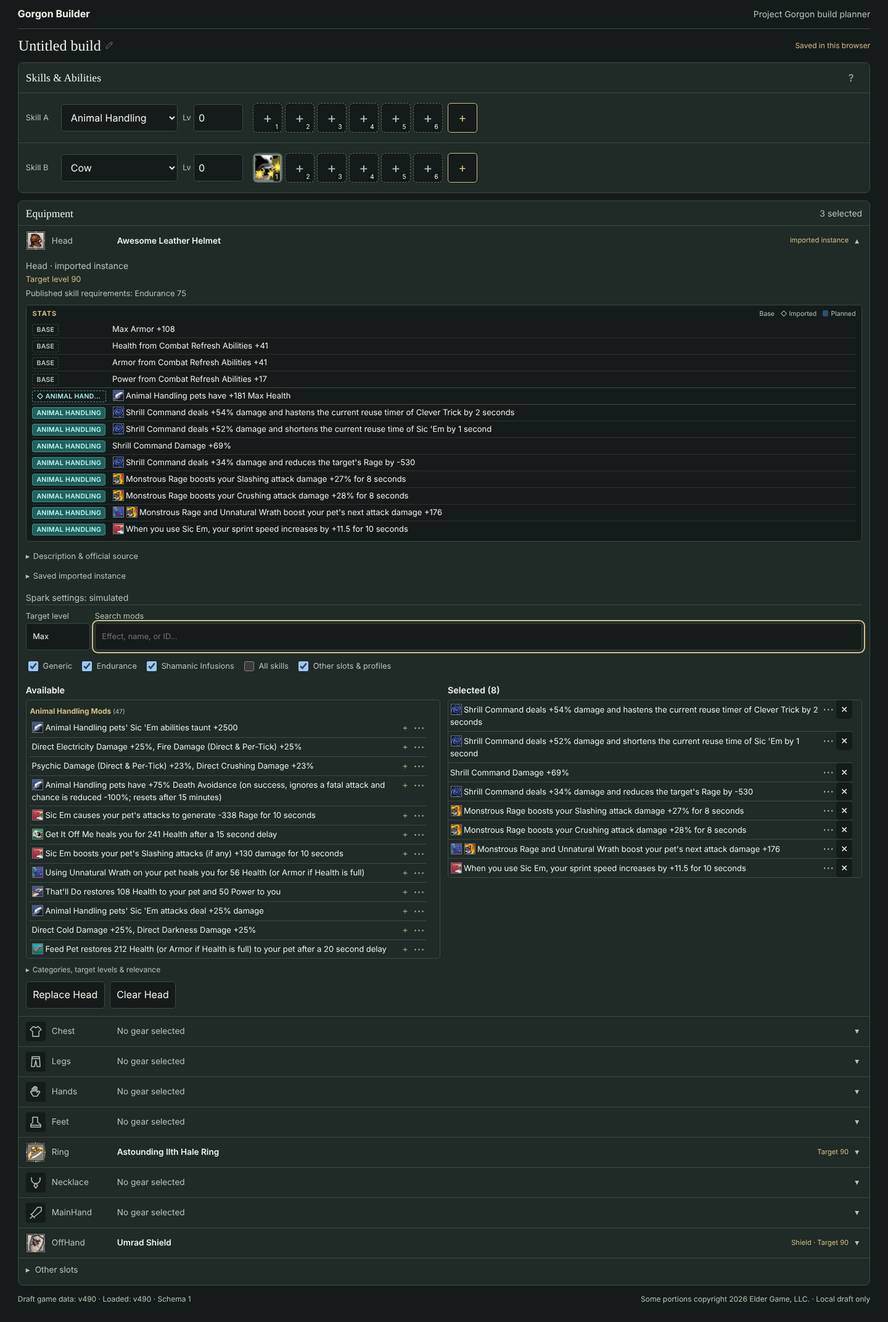
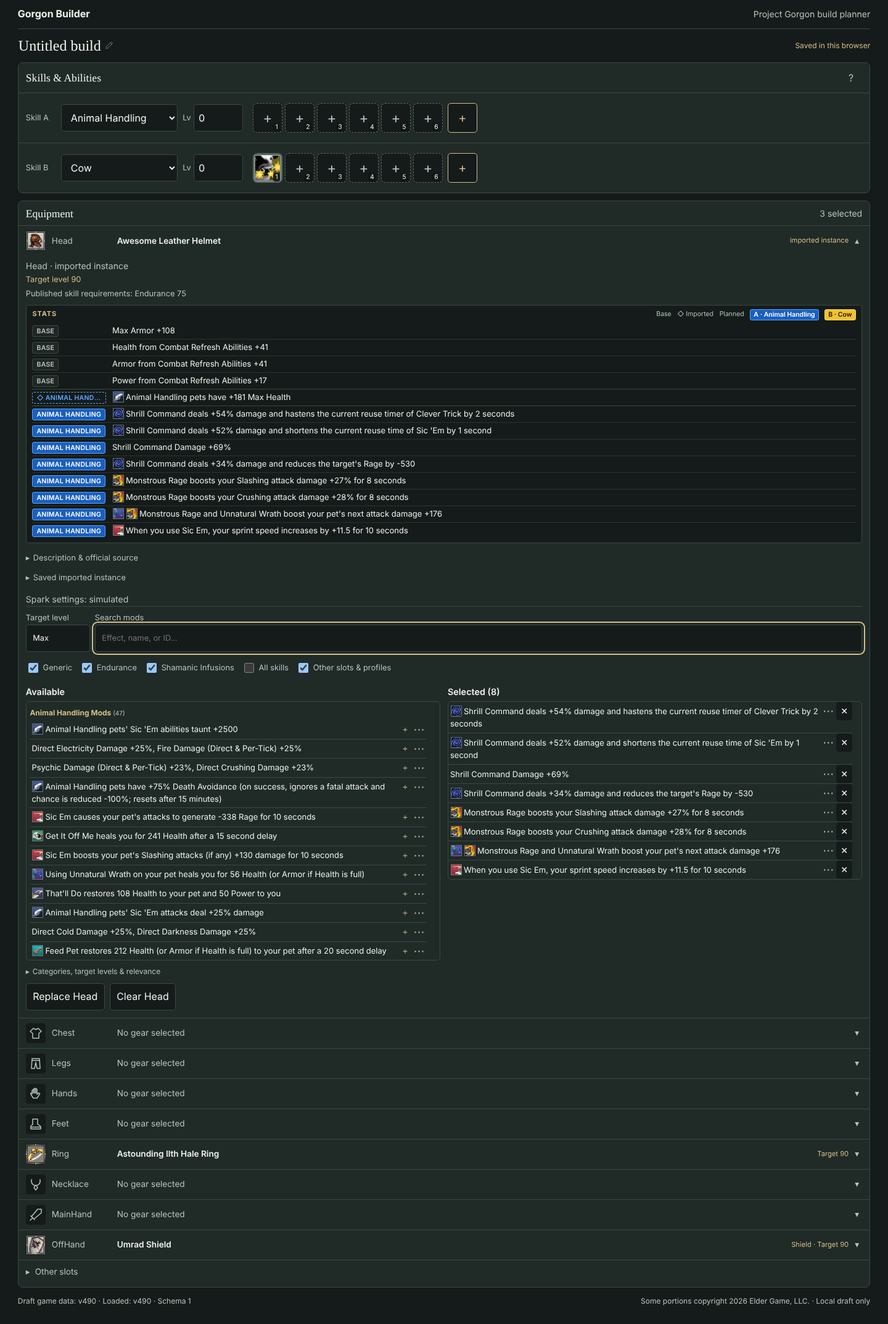
fix: T0010 slot-based STATS colours and grouped planned rows
Address the architectural re-review of dd781c0:
- Replace hashed skill hues with slot tones from the official resolved
  association and the build's current slots: Skill A blue (6.1:1),
  Skill B gold (10.9:1); A=B uses one colour; colours follow swaps.
  Generic/Endurance/Shamanic/other/unknown get distinct muted styles;
  imported powers stay outlined; labels always name the skill.
- Group planned STATS rows by skill (A, B, Generic, Endurance, Shamanic,
  other, Unknown) for display only, stable within groups and keeping
  original candidate indices. Saved order, IDs and Selected are unchanged.

Tests, Chromium smoke, screenshots and verification report updated.

Claude-Session: https://claude.ai/code/session_018vXZct9JdxSeTve8bJnRFJ

diff --git a/src/features/mods/ItemStats.tsx b/src/features/mods/ItemStats.tsx
@@ -1,64 +1,61 @@
-import type { CSSProperties } from 'react';
 import type { CandidateMod, EquipmentSelection } from '../../core/build/document';
 import type { GameDataRepository } from '../../data/repository/repository';
 import type { EquipmentDefinition } from '../../data/search/equipment';
 import { powerName } from '../../data/search/treasure';
-import { powerCategoryId, treasureCategoryLabel, treasureChipLabel } from '../../data/search/treasure-planning';
+import { groupPlannedMods, skillTone, treasureCategoryLabel, treasureChipLabel, type SkillTone } from '../../data/search/treasure-planning';
 import { EffectDescription, EffectDescriptions } from './EffectDescription';
 import './item-stats.css';
 
-/** Distinct, readable hues for skill chips; fixed hues for the non-skill categories. */
-// Warning-like yellow and error-like red hues are deliberately excluded.
-const SKILL_HUES = [205, 145, 28, 280, 335, 175, 240, 95, 315, 190, 260, 120];
-const CATEGORY_HUES: Record<string, number> = { AnySkill: 215, Endurance: 35, ShamanicInfusion: 165 };
-
-export function categoryHue(categoryId: string): number | null {
-  if (categoryId === 'unknown') return null;
-  if (categoryId in CATEGORY_HUES) return CATEGORY_HUES[categoryId]!;
-  let hash = 0;
-  for (const char of categoryId) hash = (hash * 31 + char.charCodeAt(0)) >>> 0;
-  return SKILL_HUES[hash % SKILL_HUES.length]!;
-}
-
 type Kind = 'base' | 'imported' | 'planned';
 
-function Chip({ kind, label, hue, title }: { kind: Kind; label: string; hue: number | null; title: string }) {
-  return <span className={`stat-chip stat-chip-${kind}${hue === null ? ' stat-chip-unknown' : ''}`} title={title}
-    style={hue === null ? undefined : { '--chip-hue': hue } as CSSProperties}>{kind === 'imported' ? '◇ ' : ''}{label}</span>;
+const TONE_TITLES: Record<SkillTone, string> = { 'skill-a': 'Skill A', 'skill-b': 'Skill B', generic: 'Generic', endurance: 'Endurance',
+  shamanic: 'Shamanic Infusions', other: 'Skill not in either combat slot', unknown: 'Unknown association' };
+
+/** Colour is a supplement: the chip text always names the skill/category. */
+function Chip({ kind, label, tone, title }: { kind: Kind; label: string; tone: SkillTone | 'base'; title: string }) {
+  return <span className={`stat-chip stat-chip-${kind} tone-${tone}`} data-tone={tone} title={title}>{kind === 'imported' ? '◇ ' : ''}{label}</span>;
 }
 
-function PowerRow({ mod, kind, data, index }: { mod: CandidateMod; kind: Exclude<Kind, 'base'>; data: GameDataRepository; index: number }) {
+function PowerRow({ mod, kind, data, index, skillA, skillB }: { mod: CandidateMod; kind: Exclude<Kind, 'base'>; data: GameDataRepository; index: number; skillA: string | null; skillB: string | null }) {
   const power = data.getTreasurePower(mod.powerId);
   const tier = mod.tierId === null ? undefined : data.getTreasureTier(mod.powerId, mod.tierId);
   const label = treasureChipLabel(power, data);
   const source = kind === 'planned' ? 'Planned mod' : 'Imported existing power';
+  const tone = skillTone(power, skillA, skillB, data);
   return <li className={`stat-row stat-${kind}`} data-stat-kind={kind} data-power-id={mod.powerId} data-tier-id={mod.tierId ?? ''}
     {...(kind === 'planned' ? { 'data-candidate-effect': index } : { 'data-existing-power': index })}>
-    <Chip kind={kind} label={label} hue={power ? categoryHue(powerCategoryId(power, data)) : null}
-      title={`${source} · ${power ? treasureCategoryLabel(power, data) : 'Unknown association'} · ${mod.powerId} / ${mod.tierId ?? 'No tier chosen'}`} />
+    <Chip kind={kind} label={label} tone={tone}
+      title={`${source} · ${TONE_TITLES[tone]} · ${power ? treasureCategoryLabel(power, data) : 'Unknown association'} · ${mod.powerId} / ${mod.tierId ?? 'No tier chosen'}`} />
     <span className="stat-text">{tier ? <EffectDescriptions descriptions={tier.effectDescriptions} data={data} fallback={power ? powerName(power) : 'Saved power'} />
       : <span className="warning">{power ? powerName(power) : mod.powerId} · {mod.tierId === null ? 'No tier chosen' : !power ? 'Official power unavailable (retained)' : `Tier ${mod.tierId} unavailable (retained)`}</span>}</span>
   </li>;
 }
 
-/** One structured STATS panel: every published fixed effect, imported existing powers, then planned mods. */
-export function ItemStats({ selection, item, data }: { selection: EquipmentSelection; item: EquipmentDefinition | undefined; data: GameDataRepository }) {
+/** One structured STATS panel: every published fixed effect, imported existing powers, then planned mods grouped by
+ * skill for display only (saved candidate order and indices are unchanged). Skill A is blue, Skill B gold. */
+export function ItemStats({ selection, item, data, skillA = null, skillB = null }: {
+  selection: EquipmentSelection; item: EquipmentDefinition | undefined; data: GameDataRepository; skillA?: string | null; skillB?: string | null;
+}) {
   const fixed = item?.fixedEffects ?? [];
   const existing = selection.item.kind === 'database' ? [] : selection.item.instance.existingPowers;
   const planned = selection.candidateMods;
+  const grouped = groupPlannedMods(planned, skillA, skillB, data);
+  const slotLegend = ([['skill-a', skillA], ['skill-b', skillA === skillB ? null : skillB]] as const)
+    .flatMap(([tone, id]) => id ? [{ tone, name: data.getSkill(id)?.name ?? id }] : []);
   const kinds: [Kind, boolean, string][] = [['base', fixed.length > 0, 'Base'], ['imported', existing.length > 0, '◇ Imported'], ['planned', planned.length > 0, 'Planned']];
   return <section className="item-stats" aria-label="Item stats">
     <div className="item-stats-heading"><h4>Stats</h4>
       <span className="item-stats-legend" aria-hidden="true">{kinds.filter(([, shown]) => shown).map(([kind, , text]) =>
-        <span key={kind} className={`legend-${kind}`}>{text}</span>)}</span>
+        <span key={kind} className={`legend-${kind}`}>{text}</span>)}
+        {slotLegend.map(({ tone, name }) => <span key={tone} className={`legend-tone tone-${tone}`}>{tone === 'skill-a' ? 'A' : 'B'} · {name}</span>)}</span>
     </div>
     <ul className="stat-rows">
       {fixed.map((effect, index) => <li key={`b${index}`} className="stat-row stat-base" data-stat-kind="base" data-fixed-effect={index}>
-        <Chip kind="base" label="Base" hue={null} title="Published fixed item effect" />
+        <Chip kind="base" label="Base" tone="base" title="Published fixed item effect" />
         <span className="stat-text"><EffectDescription description={effect.description} data={data} /></span>
       </li>)}
-      {existing.map((mod, index) => <PowerRow key={`e${index}`} mod={mod} kind="imported" data={data} index={index} />)}
-      {planned.map((mod, index) => <PowerRow key={`p${index}`} mod={mod} kind="planned" data={data} index={index} />)}
+      {existing.map((mod, index) => <PowerRow key={`e${index}`} mod={mod} kind="imported" data={data} index={index} skillA={skillA} skillB={skillB} />)}
+      {grouped.map(({ mod, index }) => <PowerRow key={`p${index}`} mod={mod} kind="planned" data={data} index={index} skillA={skillA} skillB={skillB} />)}
       {fixed.length + existing.length + planned.length === 0 && <li className="stat-row stat-empty muted">{item ? 'No fixed effects published. Choose Available mods below.' : 'No official base definition; no published stats.'}</li>}
     </ul>
   </section>;

diff --git a/src/data/search/treasure-planning.test.ts b/src/data/search/treasure-planning.test.ts
@@ -3,7 +3,7 @@ import { beforeAll, expect, it } from 'vitest';
 import { readFileSync } from 'node:fs';
 import { loadPlannerFixture } from '../../test/planner-fixture';
 import { browseTreasurePowers, indexTreasurePowers, treasureRelevance, treasureSlot } from './treasure';
-import { availableTreasurePowers, candidateTargetMismatch, fitsItem, groupTreasurePowers, orderTreasureTiers, previewTreasureTiers, treasureCategoryLabel, type ModCategories } from './treasure-planning';
+import { availableTreasurePowers, candidateTargetMismatch, fitsItem, groupPlannedMods, groupTreasurePowers, skillTone, orderTreasureTiers, previewTreasureTiers, treasureCategoryLabel, type ModCategories } from './treasure-planning';
 let data: ReturnType<typeof loadPlannerFixture>;
 beforeAll(() => { data = loadPlannerFixture(); });
 const enabled: ModCategories = { generic: true, endurance: true, shamanic: true };
@@ -113,4 +113,31 @@ it('maps OffHandShield items to the published OffHand treasure slot and never ex
   expect(fitsItem(power, { profile: 'different', slot: 'match', skill: 'match' }, data)).toBe(false);
   expect(fitsItem(power, { profile: 'match', slot: 'different', skill: 'match' }, data)).toBe(false);
   expect(fitsItem(data.getTreasurePower('power_30101')!, { profile: 'different', slot: 'match', skill: 'unknown' }, data)).toBe(true);
+});
+it('assigns slot tones from official associations and the current A/B slots, never from a hash', () => {
+  const druid = data.getTreasurePower('power_14005')!; const archery = data.getTreasurePower('power_10001')!;
+  expect(skillTone(druid, 'Druid', 'Archery', data)).toBe('skill-a');
+  expect(skillTone(archery, 'Druid', 'Archery', data)).toBe('skill-b');
+  expect(skillTone(druid, 'Archery', 'Druid', data)).toBe('skill-b');
+  expect(skillTone(archery, 'Archery', 'Druid', data)).toBe('skill-a');
+  expect(skillTone(druid, 'Druid', 'Druid', data)).toBe('skill-a');
+  expect(skillTone(archery, 'Druid', null, data)).toBe('other');
+  expect(skillTone(data.getTreasurePower('power_101'), 'Druid', 'Archery', data)).toBe('generic');
+  expect(skillTone(data.getTreasurePower('power_129'), 'Druid', 'Archery', data)).toBe('endurance');
+  expect(skillTone(data.getTreasurePower('power_30101'), 'Druid', 'Archery', data)).toBe('shamanic');
+  expect(skillTone(data.treasurePowers.find(p => p.skill.sourceId === 'Unknown'), 'Druid', 'Archery', data)).toBe('unknown');
+  expect(skillTone(undefined, 'Druid', 'Archery', data)).toBe('unknown');
+});
+it('groups planned mods by skill for display only, stable within groups and keeping original indices', () => {
+  const unknown = data.treasurePowers.find(p => p.skill.sourceId === 'Unknown')!.id;
+  const mods = [{ powerId: 'power_14005', tierId: 'id_25' }, { powerId: 'missing', tierId: null }, { powerId: 'power_10001', tierId: 'id_12' },
+    { powerId: 'power_101', tierId: null }, { powerId: 'power_3001', tierId: null }, { powerId: 'power_14154', tierId: null },
+    { powerId: unknown, tierId: null }, { powerId: 'power_30101', tierId: null }, { powerId: 'power_129', tierId: 'id_120' }, { powerId: 'power_21002', tierId: null }];
+  const frozen = JSON.stringify(mods);
+  const order = (a: string | null, b: string | null) => groupPlannedMods(mods, a, b, data).map(row => row.index);
+  expect(order('Druid', 'Archery')).toEqual([0, 5, 2, 3, 8, 7, 4, 9, 1, 6]);
+  expect(order('Archery', 'Druid')).toEqual([2, 0, 5, 3, 8, 7, 4, 9, 1, 6]);
+  expect(order('Druid', 'Druid')).toEqual([0, 5, 3, 8, 7, 2, 4, 9, 1, 6]);
+  expect(groupPlannedMods(mods, 'Druid', 'Archery', data).map(row => row.mod)).toEqual([0, 5, 2, 3, 8, 7, 4, 9, 1, 6].map(i => mods[i]));
+  expect(JSON.stringify(mods)).toBe(frozen);
 });

diff --git a/src/features/mods/item-stats.css b/src/features/mods/item-stats.css
@@ -3,7 +3,6 @@
 .item-stats-heading { display: flex; align-items: baseline; justify-content: space-between; gap: 0.5rem; padding-bottom: 0.2rem; }
 .item-stats-heading h4 { margin: 0; font-size: 11px; font-weight: 700; letter-spacing: 0.08em; text-transform: uppercase; color: var(--color-accent); }
 .item-stats-legend { display: flex; gap: 0.6rem; font-size: 10.5px; color: var(--color-muted); }
-.item-stats-legend .legend-planned::before { content: ''; display: inline-block; width: 0.6rem; height: 0.6rem; margin-right: 0.25rem; vertical-align: -1px; border-radius: 2px; background: hsl(205 45% 30%); }
 .stat-rows { list-style: none; margin: 0; padding: 0; }
 .stat-row { display: grid; grid-template-columns: 7.5rem minmax(0, 1fr); align-items: baseline; gap: 0.6rem; padding-block: 3px; font-size: 13px; line-height: 19px; }
 .stat-row + .stat-row { border-top: 1px solid color-mix(in srgb, var(--color-border) 55%, transparent); }
@@ -11,10 +10,22 @@
 .stat-text { min-width: 0; overflow-wrap: break-word; }
 .stat-base .stat-text { color: var(--color-text); }
 .stat-chip { justify-self: start; max-width: 100%; overflow: hidden; text-overflow: ellipsis; white-space: nowrap; padding: 0 6px; border-radius: 3px; font-size: 10.5px; line-height: 17px; font-weight: 600; letter-spacing: 0.03em; text-transform: uppercase; }
-.stat-chip-planned { color: hsl(var(--chip-hue) 85% 84%); background: hsl(var(--chip-hue) 45% 26%); border: 1px solid hsl(var(--chip-hue) 45% 40%); }
-.stat-chip-imported { color: hsl(var(--chip-hue) 70% 78%); background: transparent; border: 1px dashed hsl(var(--chip-hue) 40% 45%); }
 .stat-chip-base { color: var(--color-muted); background: #ffffff0d; border: 1px solid var(--color-border); }
-.stat-chip-unknown { color: var(--color-muted); background: transparent; border: 1px dashed var(--color-border); }
+/* Slot tones (GorgonExplorer-like): Skill A strong blue, Skill B gold. Filled-chip text contrast: A 6.1:1, B 10.9:1, others >= 7:1 (WCAG AA+).
+ * Non-slot categories are neutral/muted so they never look like a combat slot. Labels always name the skill. */
+.stat-chip { --tone-fg: var(--color-text); --tone-bg: #ffffff12; --tone-border: #8a958d; }
+.tone-skill-a { --tone-fg: #ffffff; --tone-bg: #1a5fc0; --tone-border: #5aa6ff; }
+.tone-skill-b { --tone-fg: #1c1400; --tone-bg: #f2c230; --tone-border: #ffd966; }
+.tone-generic { --tone-fg: #d5dde8; --tone-bg: #3a4452; --tone-border: #6c7a8c; }
+.tone-endurance { --tone-fg: #f0d9c2; --tone-bg: #4a3626; --tone-border: #8d6a4c; }
+.tone-shamanic { --tone-fg: #c8f0e8; --tone-bg: #1f4740; --tone-border: #4f8f84; }
+.tone-other { --tone-fg: #d9ddd9; --tone-bg: #2f3532; --tone-border: #737d76; }
+.tone-unknown { --tone-fg: var(--color-muted); --tone-bg: transparent; --tone-border: var(--color-border); border-style: dashed !important; }
+.stat-chip-planned { color: var(--tone-fg); background: var(--tone-bg); border: 1px solid var(--tone-border); }
+/* Imported existing powers: same tone, outlined (not filled) so they stay distinct from planned mods. */
+.stat-chip-imported { color: var(--tone-border); background: transparent; border: 1px dashed var(--tone-border); }
+.tone-skill-b.stat-chip-imported { color: #ffd966; }
+.item-stats-legend .legend-tone { padding: 0 5px; border-radius: 3px; font-weight: 600; color: var(--tone-fg); background: var(--tone-bg); border: 1px solid var(--tone-border); }
 .stat-empty { display: block; font-size: 12px; }
 @media (max-width: 30rem) {
   .stat-row { grid-template-columns: 5.5rem minmax(0, 1fr); gap: 0.4rem; font-size: 12.5px; }

diff --git a/src/features/mods/ItemStats.test.tsx b/src/features/mods/ItemStats.test.tsx
@@ -1,0 +1,36 @@
+import { act } from 'react';
+import { createRoot, type Root } from 'react-dom/client';
+import { afterEach, beforeAll, beforeEach, expect, it } from 'vitest';
+import type { EquipmentSelection } from '../../core/build/document';
+import { loadPlannerFixture } from '../../test/planner-fixture';
+import { ItemStats } from './ItemStats';
+let data: ReturnType<typeof loadPlannerFixture>;
+let container: HTMLDivElement, root: Root;
+beforeAll(() => { data = loadPlannerFixture(); });
+beforeEach(() => { container = document.createElement('div'); document.body.append(container); root = createRoot(container); });
+afterEach(async () => { await act(async () => root.unmount()); container.remove(); });
+const selection: EquipmentSelection = { slot: 'Chest', item: { kind: 'imported', instance: { baseItemId: 'item_42705', existingPowers: [{ powerId: 'power_10001', tierId: 'id_12' }] } },
+  candidateMods: [{ powerId: 'power_14005', tierId: 'id_25' }, { powerId: 'power_10001', tierId: 'id_12' }, { powerId: 'power_101', tierId: null },
+    { powerId: 'power_14154', tierId: null }, { powerId: 'power_129', tierId: 'id_120' }, { powerId: 'power_30101', tierId: null }, { powerId: 'missing', tierId: null }],
+  sparks: { mode: 'none' } };
+async function render(skillA: string | null, skillB: string | null) {
+  await act(async () => root.render(<ItemStats selection={selection} item={data.getItem('item_42705')} data={data} skillA={skillA} skillB={skillB} />));
+  return [...container.querySelectorAll<HTMLElement>('[data-stat-kind="planned"] .stat-chip')].map(chip => `${chip.textContent}:${chip.dataset.tone}`);
+}
+it('colours follow the current slots: swapping A/B swaps colours and group order; A=B uses one primary colour', async () => {
+  const tail = ['Generic:generic', 'Endurance:endurance', 'Shamanic:shamanic', 'Unknown:unknown'];
+  expect(await render('Druid', 'Archery')).toEqual(['Druid:skill-a', 'Druid:skill-a', 'Archery:skill-b', ...tail]);
+  expect(await render('Archery', 'Druid')).toEqual(['Archery:skill-a', 'Druid:skill-b', 'Druid:skill-b', ...tail]);
+  expect(await render('Druid', 'Druid')).toEqual(['Druid:skill-a', 'Druid:skill-a', ...tail.slice(0, 3), 'Archery:other', 'Unknown:unknown']);
+  expect(container.querySelector('.item-stats-legend')!.textContent).toContain('A · Druid');
+  expect(container.querySelector('.item-stats-legend')!.textContent).not.toContain('B ·');
+  expect(await render(null, null)).toEqual(['Generic:generic', 'Endurance:endurance', 'Shamanic:shamanic', 'Druid:other', 'Druid:other', 'Archery:other', 'Unknown:unknown']);
+  // Imported powers keep the outlined style with their slot tone; base rows stay neutral.
+  await render('Archery', 'Druid');
+  const imported = container.querySelector<HTMLElement>('[data-stat-kind="imported"] .stat-chip')!;
+  expect(imported.className).toContain('stat-chip-imported');
+  expect(imported.dataset.tone).toBe('skill-a');
+  expect(imported.textContent).toBe('◇ Archery');
+  expect([...container.querySelectorAll<HTMLElement>('[data-stat-kind="base"] .stat-chip')].every(chip => chip.dataset.tone === 'base')).toBe(true);
+  expect([...container.querySelectorAll<HTMLElement>('[data-stat-kind="planned"]')].map(row => row.dataset.candidateEffect)).toEqual(['1', '0', '3', '2', '4', '5', '6']);
+});

diff --git a/src/features/mods/ModPlanner.test.tsx b/src/features/mods/ModPlanner.test.tsx
@@ -378,3 +378,31 @@ it('renders paired Animal Handling attributes as one readable +25%/+25% effect i
   expect(saved().equipment[0]!.candidateMods).toEqual([{ powerId: 'power_12192', tierId: 'id_25' }]);
   expect(saved().skillSlotB).toEqual({ skillId: 'AnimalHandling', level: 125 });
 });
+
+it('groups planned STATS rows by skill (Druid, Druid, Archery) with A blue / B gold, without changing saved order or Selected', async () => {
+  seedChest('Druid', 'Archery'); await render(); await click('[data-equipment-row="Chest"] > summary');
+  const archery = control(`${chestEditor} [data-mod-group="Archery"] [data-power-id]`);
+  const archeryMod = { powerId: archery.dataset.powerId!, tierId: archery.dataset.previewTier! };
+  await click(`${chestEditor} [data-power-id="power_14005"] > .available-effect`);
+  await click(`${chestEditor} [data-power-id="${archeryMod.powerId}"] > .available-effect`);
+  await click(`${chestEditor} [data-power-id="power_14154"] > .available-effect`);
+  const rows = () => [...container.querySelectorAll<HTMLElement>(`${chest} .item-stats [data-stat-kind="planned"]`)];
+  expect(rows().map(row => row.querySelector('.stat-chip')!.textContent)).toEqual(['Druid', 'Druid', 'Archery']);
+  expect(rows().map(row => row.dataset.candidateEffect)).toEqual(['0', '2', '1']);
+  expect(rows().map(row => (row.querySelector('.stat-chip') as HTMLElement).dataset.tone)).toEqual(['skill-a', 'skill-a', 'skill-b']);
+  expect(control(`${chest} .item-stats-legend`).textContent).toContain('A · Druid');
+  expect(control(`${chest} .item-stats-legend`).textContent).toContain('B · Archery');
+  // Selected keeps saved order and its index-based controls.
+  expect([...container.querySelectorAll<HTMLElement>(`${chestEditor} .candidate-list > [data-mod-index]`)].map(row => row.textContent)).toEqual([
+    expect.stringContaining('Indirect Poison Damage'), expect.anything(), expect.stringContaining('Brambleskin')]);
+  await tick();
+  const savedOrder = [{ powerId: 'power_14005', tierId: 'id_25' }, archeryMod, { powerId: 'power_14154', tierId: control<HTMLSelectElement>(`${chestEditor} [aria-label="Tier for candidate 3"]`).value }];
+  expect(saved().equipment[2]!.candidateMods).toEqual(savedOrder);
+  // Removing candidate 1 (Druid) by its saved index keeps grouping and identities consistent.
+  await click(`${chestEditor} [aria-label="Remove candidate 1"]`);
+  expect(rows().map(row => [row.querySelector('.stat-chip')!.textContent, row.dataset.candidateEffect])).toEqual([['Druid', '1'], ['Archery', '0']]);
+  await tick(); expect(saved().equipment[2]!.candidateMods).toEqual(savedOrder.slice(1));
+  await remount();
+  await click('[data-equipment-row="Chest"] > summary');
+  expect(rows().map(row => row.querySelector('.stat-chip')!.textContent)).toEqual(['Druid', 'Archery']);
+});

diff --git a/src/data/search/treasure-planning.ts b/src/data/search/treasure-planning.ts
@@ -93,3 +93,34 @@ export function groupTreasurePowers(powers: readonly TreasurePower[], skillIds: 
   }
   return groups.filter(group => group.powers.length > 0);
 }
+
+/** Presentation tone for STATS chips, from the official resolved association and the build's current slots. */
+export type SkillTone = 'skill-a' | 'skill-b' | 'generic' | 'endurance' | 'shamanic' | 'other' | 'unknown';
+const TONE_ORDER: readonly SkillTone[] = ['skill-a', 'skill-b', 'generic', 'endurance', 'shamanic', 'other', 'unknown'];
+
+export function skillTone(power: TreasurePower | undefined, skillA: string | null, skillB: string | null, data: GameDataRepository): SkillTone {
+  if (!power) return 'unknown';
+  const category = powerCategoryId(power, data);
+  // A=B uses the single primary (A) colour.
+  if (skillA !== null && category === skillA) return 'skill-a';
+  if (skillB !== null && category === skillB) return 'skill-b';
+  if (category === 'AnySkill') return 'generic';
+  if (category === 'Endurance') return 'endurance';
+  if (category === 'ShamanicInfusion') return 'shamanic';
+  return category === 'unknown' ? 'unknown' : 'other';
+}
+
+/**
+ * Presentation-only grouping of planned mods: Skill A, Skill B, Generic, Endurance, Shamanic, other resolved skills
+ * (by first appearance), Unknown. Stable within each group; `index` is the original saved candidate index.
+ */
+export function groupPlannedMods<T extends { powerId: string }>(mods: readonly T[], skillA: string | null, skillB: string | null,
+  data: GameDataRepository): { mod: T; index: number; tone: SkillTone }[] {
+  const rows = mods.map((mod, index) => {
+    const power = data.getTreasurePower(mod.powerId);
+    return { mod, index, tone: skillTone(power, skillA, skillB, data), category: power ? powerCategoryId(power, data) : 'unknown' };
+  });
+  const otherOrder = [...new Set(rows.filter(row => row.tone === 'other').map(row => row.category))];
+  const rank = (row: typeof rows[number]) => TONE_ORDER.indexOf(row.tone) * 10000 + (row.tone === 'other' ? otherOrder.indexOf(row.category) : 0);
+  return [...rows].sort((a, b) => rank(a) - rank(b) || a.index - b.index).map(({ mod, index, tone }) => ({ mod, index, tone }));
+}

diff --git a/src/features/equipment/EquipmentPlanner.tsx b/src/features/equipment/EquipmentPlanner.tsx
@@ -52,8 +52,8 @@ export function EquipmentPlanner({ build, data, onEdit, readOnly, minimum, prefe
     return <article className="equipment-selection" key={index} data-selection-index={index}>
       {multiple && <p className="equipment-entry-label">Saved entry {index + 1}: {name(selection)}</p>}
       <p className="muted equipment-selection-type">{selection.slot}{selection.item.kind !== 'database' && ` · ${selection.item.kind} instance`}</p>
-      {item ? <ItemFacts item={item} data={data} stats={<ItemStats selection={selection} item={item} data={data} />} />
-        : <><p className="warning">This saved selection has no available official base definition. It is retained.</p><ItemStats selection={selection} item={undefined} data={data} /></>}
+      {item ? <ItemFacts item={item} data={data} stats={<ItemStats selection={selection} item={item} data={data} skillA={build.skillSlotA.skillId} skillB={build.skillSlotB.skillId} />} />
+        : <><p className="warning">This saved selection has no available official base definition. It is retained.</p><ItemStats selection={selection} item={undefined} data={data} skillA={build.skillSlotA.skillId} skillB={build.skillSlotB.skillId} /></>}
       {item && item.slot !== selection.slot && <p className="warning">Published slot is {item.slot}; saved slot {selection.slot} is retained.</p>}
       {selection.item.kind !== 'database' && <details className="item-more"><summary>Saved {selection.item.kind} instance</summary><pre>{JSON.stringify(selection.item.instance, null, 2)}</pre></details>}
       <EquipmentMods selection={selection} equipmentIndex={index} item={item} skillIds={skillIds} data={data} onEdit={onEdit} readOnly={readOnly} expanded={expanded.has(isOffhandSlot(selection.slot) ? 'OffHand' : selection.slot)} />

diff --git a/src/features/mods/mods.smoke.py b/src/features/mods/mods.smoke.py
@@ -379,7 +379,7 @@ def main():
                         page.set_viewport_size({'width': 1440, 'height': 900})
                         druid_build = copy.deepcopy(baseline)
                         druid_build['skillSlotA'] = {'skillId': 'Druid', 'level': 100}
-                        druid_build['skillSlotB'] = {'skillId': None, 'level': 70}
+                        druid_build['skillSlotB'] = {'skillId': 'Archery', 'level': 100}
                         druid_build['abilityBarA'] = []; druid_build['abilityBarB'] = []
                         druid_build['equipment'] = [e for e in druid_build['equipment'] if e['slot'] != 'Chest'] + [{'slot': 'Chest', 'item': {'kind': 'database', 'itemId': 'item_42705'}, 'candidateMods': [], 'sparks': {'mode': 'none'}}]
                         chest_index = len(druid_build['equipment']) - 1
@@ -401,14 +401,19 @@ def main():
                         assert 'Vulnerability to Electricity -20%' in base_rows.all_inner_texts() and 'Armor from Combat Refresh Abilities +45' in base_rows.all_inner_texts()
                         expect(chest).not_to_contain_text('more fixed effects')
                         druid_mods = []
-                        for power_id in ['power_14005', 'power_14154', 'power_14201']:
+                        archery_id = chest_editor.locator('[data-mod-group="Archery"] [data-power-id]').first.get_attribute('data-power-id')
+                        for power_id in ['power_14005', archery_id, 'power_14154']:
                             druid_row = chest_editor.locator(f'[data-power-id="{power_id}"]')
                             druid_mods.append({'powerId': power_id, 'tierId': druid_row.get_attribute('data-preview-tier')})
                             druid_row.locator(':scope > .available-effect').click()
-                        expect(druid_rows).to_have_count(8)
+                        expect(druid_rows).to_have_count(9)
                         planned = chest.locator('.item-stats [data-stat-kind="planned"]')
                         expect(planned).to_have_count(3)
-                        expect(planned.locator('.stat-chip')).to_have_text(['Druid', 'Druid', 'Druid'])
+                        # Presentation-only grouping: Druid, Druid, Archery; saved order stays Druid, Archery, Druid.
+                        expect(planned.locator('.stat-chip')).to_have_text(['Druid', 'Druid', 'Archery'])
+                        assert planned.evaluate_all('(es) => es.map(e => e.dataset.candidateEffect)') == ['0', '2', '1']
+                        chip_colors = planned.locator('.stat-chip').evaluate_all('(es) => es.map(e => getComputedStyle(e).backgroundColor)')
+                        assert chip_colors == ['rgb(26, 95, 192)', 'rgb(26, 95, 192)', 'rgb(242, 194, 48)'], chip_colors
                         chip_x = chest.locator('.item-stats .stat-text').evaluate_all('(es) => [...new Set(es.map(e => Math.round(e.getBoundingClientRect().left)))]')
                         assert len(chip_x) == 1, chip_x  # every STATS effect starts in one aligned column
                         expect(chest).not_to_contain_text('CANDIDATE')
@@ -420,9 +425,10 @@ def main():
                         page.locator('[data-equipment-row="Chest"]').screenshot(path=str(output / f'{mode}-druid-chest-mobile.png'))
                         page.set_viewport_size({'width': 1440, 'height': 900})
                         page.locator('#skill-A').select_option('Psychology')
-                        expect(page.locator('.skill-change-notice')).to_contain_text('Removed 3 staged Druid mods from 1 item.')
-                        expect(planned).to_have_count(0)
-                        wait_saved(); assert saved()['equipment'][chest_index]['candidateMods'] == [] and saved()['equipment'][:chest_index] == druid_build['equipment'][:chest_index]
+                        expect(page.locator('.skill-change-notice')).to_contain_text('Removed 2 staged Druid mods from 1 item.')
+                        expect(planned).to_have_count(1)
+                        expect(planned.locator('.stat-chip')).to_have_text(['Archery'])
+                        wait_saved(); assert saved()['equipment'][chest_index]['candidateMods'] == [druid_mods[1]] and saved()['equipment'][:chest_index] == druid_build['equipment'][:chest_index]
                         page.locator('.skill-change-notice button', has_text='Undo').click()
                         expect(planned).to_have_count(3)
                         wait_saved(); assert saved()['equipment'][chest_index]['candidateMods'] == druid_mods and saved()['skillSlotA']['skillId'] == 'Druid'

diff --git a/docs/T0010_Verification.md b/docs/T0010_Verification.md
@@ -2,7 +2,34 @@
 
 **Status: Revised on the existing PR #22 for architectural review and customer acceptance. Not merged or marked complete.**
 
-Branch: `feature/t0010-treasure-mod-planner`. The initial implementation at `62d8116` passed architectural review, but the Product Owner requested a different UI in [the latest customer revision review](https://github.com/Zaelious/GorgonBuilder/pull/22#pullrequestreview-5729510750). The subsequent [rendering/density review at c13d9f5](https://github.com/Zaelious/GorgonBuilder/pull/22#pullrequestreview-5729721042) requires actual official icons, readable effects and substantially denser lists. The [customer acceptance review at 8f6f4a2](https://github.com/Zaelious/GorgonBuilder/pull/22#pullrequestreview-5729847590) then required four further corrections: player-facing percentages, unclipped mod effects, use of the desktop viewport and visible three-digit skill levels. The [final customer review](https://github.com/Zaelious/GorgonBuilder/pull/22#pullrequestreview-5730246516) and its [addendum](https://github.com/Zaelious/GorgonBuilder/pull/22#pullrequestreview-5730252983) then required six more corrections, described in the first section below. Later sections keep the earlier evidence, marked where this revision supersedes it. Existing domain/persistence work remains in place.
+Branch: `feature/t0010-treasure-mod-planner`. The initial implementation at `62d8116` passed architectural review, but the Product Owner requested a different UI in [the latest customer revision review](https://github.com/Zaelious/GorgonBuilder/pull/22#pullrequestreview-5729510750). The subsequent [rendering/density review at c13d9f5](https://github.com/Zaelious/GorgonBuilder/pull/22#pullrequestreview-5729721042) requires actual official icons, readable effects and substantially denser lists. The [customer acceptance review at 8f6f4a2](https://github.com/Zaelious/GorgonBuilder/pull/22#pullrequestreview-5729847590) then required four further corrections: player-facing percentages, unclipped mod effects, use of the desktop viewport and visible three-digit skill levels. The [architectural re-review at dd781c0](https://github.com/Zaelious/GorgonBuilder/pull/22#pullrequestreview-5730438882) then asked for two visual fixes: slot-based skill colours and grouped STATS rows, described first below. Before that, the [final customer review](https://github.com/Zaelious/GorgonBuilder/pull/22#pullrequestreview-5730246516) and its [addendum](https://github.com/Zaelious/GorgonBuilder/pull/22#pullrequestreview-5730252983) then required six more corrections, described in the first section below. Later sections keep the earlier evidence, marked where this revision supersedes it. Existing domain/persistence work remains in place.
+
+## Slot colours and grouped STATS rows (re-review at dd781c0)
+
+### 1. Skill A blue, Skill B gold
+- The hashed palette (`categoryHue`) is removed. A planned or imported power's tone now comes from its **officially resolved skill ID**, compared with the build's current Skill A and Skill B. The two slot IDs are passed to `ItemStats` in order, not as a deduplicated set.
+- **Skill A** is filled blue: `#1a5fc0` with white text, 6.1:1 contrast. **Skill B** is filled gold: `#f2c230` with near-black text, 10.9:1. These values come from computed styles checked in Chromium.
+- **A=B** uses the single Skill A blue. When the skills swap slots, the colours follow the new assignment, because nothing is stored.
+- The chip text always names the skill (e.g. DRUID, ARCHERY), so colour is never the only cue. The STATS legend shows `A · Druid` and `B · Archery` in the slot colours.
+- **Generic** (slate), **Endurance** (brown) and **Shamanic** (teal) each use a muted fill with at least 7:1 contrast. Resolved skills in neither slot are neutral gray, and unknown or missing powers get a dashed neutral chip, so none of these looks like a combat slot.
+- **Base** rows stay neutral. **Imported** powers keep their outlined, dashed style but use their slot tone, e.g. `◇ ARCHERY` outlined in blue when Archery is Skill A.
+
+### 2. Planned STATS rows grouped by skill (presentation only)
+- `groupPlannedMods` sorts a copy of the planned mods in this order: Skill A, Skill B, Generic, Endurance, Shamanic, other resolved skills (by first appearance), then Unknown. Order within each group is unchanged.
+- Base fixed effects stay first and complete. Imported powers follow, then the grouped planned mods.
+- Adding Druid 1 → Archery 1 → Druid 2 shows **DRUID, DRUID, ARCHERY**. `data-candidate-effect` keeps the original saved indices (`0, 2, 1`).
+- `BuildDocument.candidateMods`, the exact `(powerId, tierId)` pairs, the Selected pane order and its up/down/remove/tier controls are unchanged. The saved draft keeps Druid, Archery, Druid.
+- Grouping stays correct after removing a candidate by its saved index, after reload, after a skill change clears the departed skill's mods, and after Undo.
+- **Tests:**
+  - Pure tests cover every tone, the A/B swap, A=B, no slots, and the full group order including missing and unknown powers. They also check that the input array is not mutated.
+  - A component test checks A/B swapping, A=B, imported tones and original indices.
+  - An App test covers Druid → Archery → Druid: STATS order, tones and legend; Selected order; exact saved order through autosave; removal; and reload.
+- The **Chromium smoke** (dev and preview) asserts:
+  - STATS order and the original indices.
+  - Computed chip backgrounds of `rgb(26, 95, 192)` for Druid and `rgb(242, 194, 48)` for Archery.
+  - Druid → Psychology clears 2 Druid mods, keeps the gold Archery row, and Undo restores everything.
+
+Files: `src/data/search/treasure-planning.ts` (`skillTone`, `groupPlannedMods`), `src/features/mods/ItemStats.tsx`, `item-stats.css`, `src/features/equipment/EquipmentPlanner.tsx`, `src/features/mods/ItemStats.test.tsx` (new), `treasure-planning.test.ts`, `ModPlanner.test.tsx` and `mods.smoke.py`. Screenshots were refreshed. **500 tests across 21 files pass.**
 
 ## Final customer UI corrections (reviews at d8f195a)
 
@@ -52,7 +79,7 @@ Same-effect checks across the data:
 ### STATS panel and fixed effects
 
 - Each equipped item has one compact **STATS** panel: all published fixed effects (chip **Base**), then imported existing powers (dashed chip **◇ Skill**), then planned mods (filled chip **Skill**).
-- Every row is a two-column grid with a fixed chip column, so effects start at one aligned x position (asserted in Chromium). Skill chips use a deterministic accessible hue per skill (Druid renders blue). Generic, Endurance and Shamanic have fixed hues. Unknown associations get a dashed neutral chip.
+- Every row is a two-column grid with a fixed chip column, so effects start at one aligned x position (asserted in Chromium). *Superseded:* chip colours are now slot-based (Skill A blue, Skill B gold; see the first section).
 - Official icons and complete, unclamped descriptions are kept. The word **CANDIDATE** and the loose list are gone; a small legend explains Base / ◇ Imported / Planned.
 - `ItemFacts.tsx` no longer cuts fixed effects at three behind a "more fixed effects" dropdown. **All** published fixed effects are shown immediately: 1,247 v490 equipment items have more than three, up to nine. **Description & official source** remains an optional expandable section, and it still lists the exact raw fixed-effect strings.
 
@@ -297,7 +324,7 @@ Both mod-workflow modes check for zero unexpected console errors/page exceptions
 
 Artifacts and JSON measurements were written to the session scratch directory (not committed). Measurements are unthrottled local Chromium observations, not guarantees for low-end devices, other engines or live Cloudflare runtime.
 
-![Druid + Chest: complete STATS panel and Available/Selected](screenshots/t0010/druid-chest-desktop.png)
+![Druid (A, blue) + Archery (B, gold) Chest: grouped STATS panel and Available/Selected](screenshots/t0010/druid-chest-desktop.png)
 
 ![Druid + Chest at 375px](screenshots/t0010/druid-chest-mobile.png)
 
